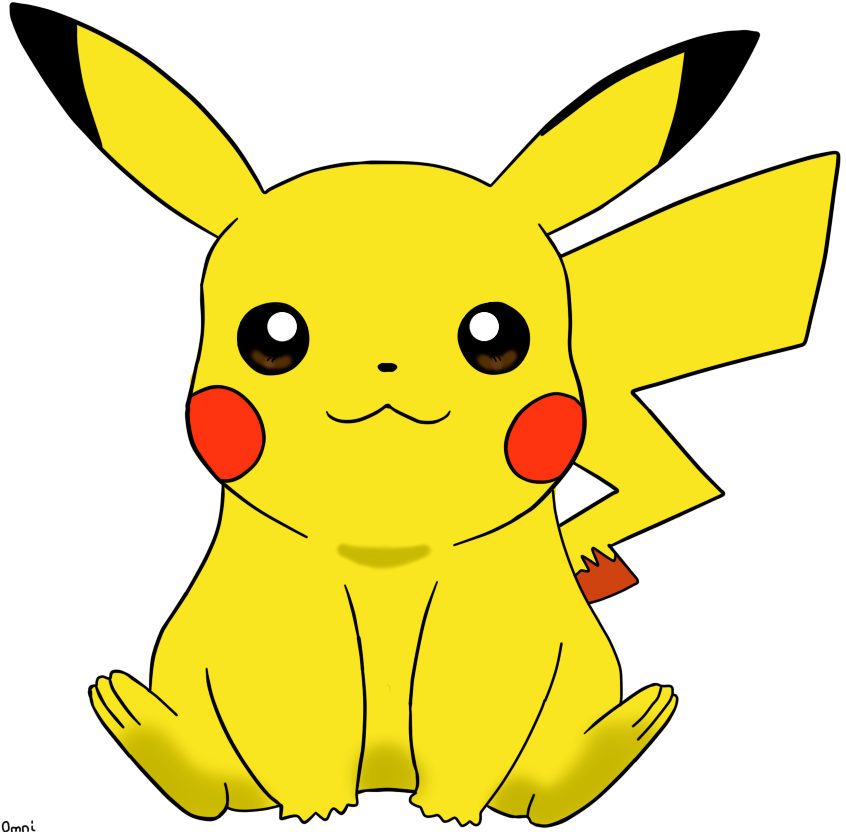
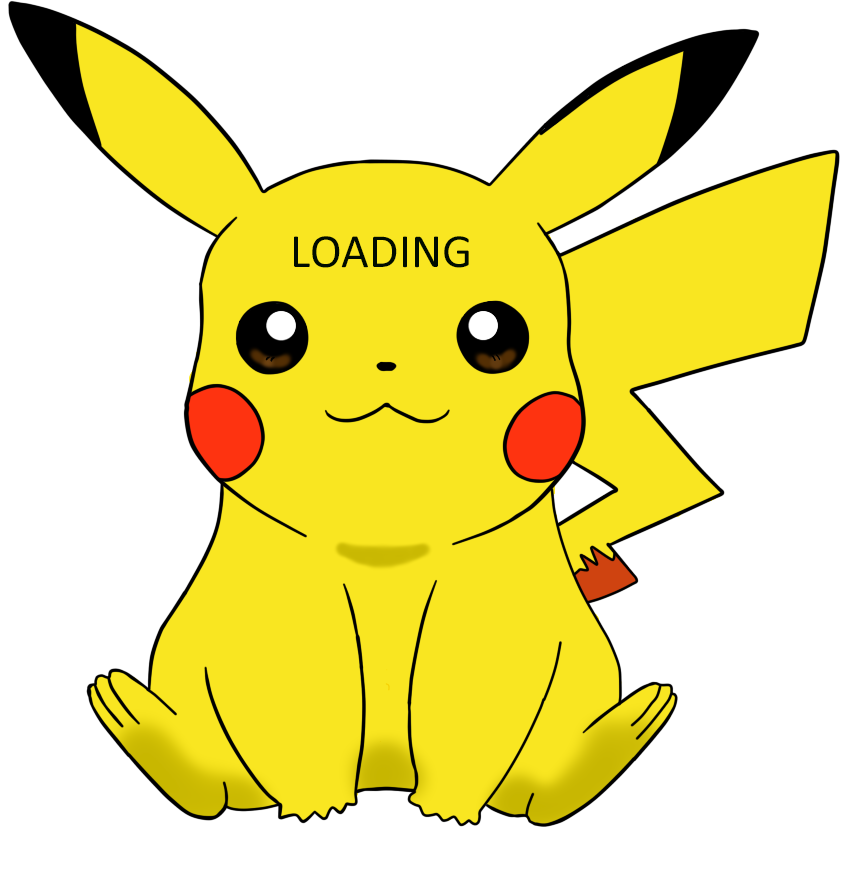
1.10 loading screen fixed

diff --git a/js/scripts.js b/js/scripts.js
@@ -108,13 +108,13 @@ function loadDetails(item) {
       src: 'img/pikachu.png',
       alt: 'loading image'
     });
-    loadingImg.appendTo('.pokedex').addClass('mx-auto d-block')
-  } 
+    loadingImg.appendTo('.pokedex');
+  };
 
 // remove loading screen
   function hideLoading() {
     $('.loading').remove();
-  }
+  };
 
 // MODAL
   function showModal(pokemon){
@@ -206,14 +206,14 @@ function loadDetails(item) {
       }
       modalBody.append(pokemonType);
     })
-  }
+  };
 
   return {
     getAll: getAll,
     addListItem: addListItem,
     loadList: loadList,
     loadDetails: loadDetails
-  }
+  };
 })();
 
 // display pokemons

diff --git a/css/styles.css b/css/styles.css
@@ -11,3 +11,14 @@
   text-decoration: none;
   color: rgb(195, 42, 34);
 }
+
+.loading {
+  /* height: 100%; */
+  position: absolute;
+  top: 0;
+  bottom: 0;
+  left: 0;
+  right: 0;
+  margin: auto;
+  background-repeat: no-repeat;
+}
